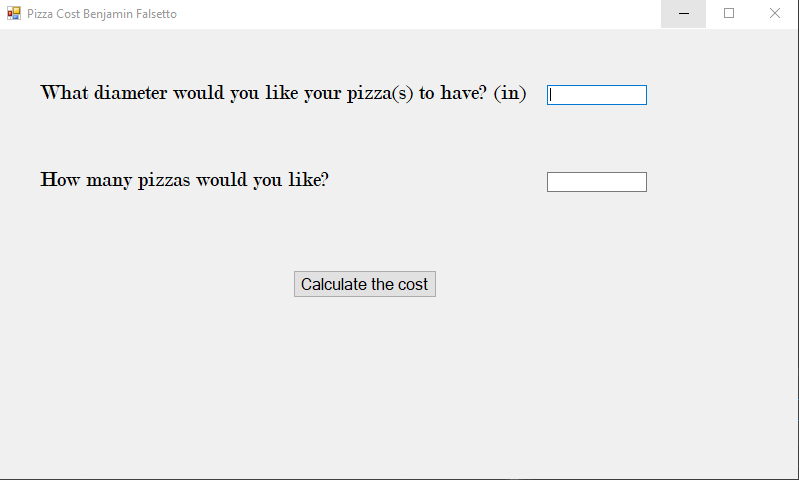
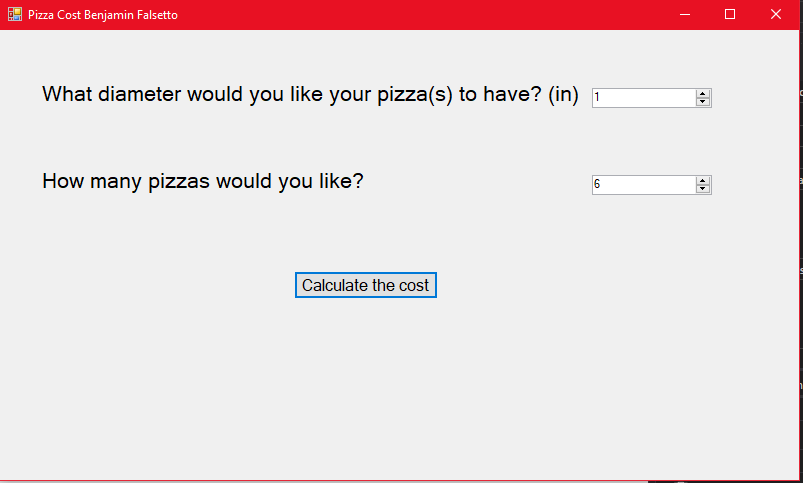
46567

diff --git a/PizzaCost/PizzaCost/PizzaCostForm.Designer.cs b/PizzaCost/PizzaCost/PizzaCostForm.Designer.cs
@@ -94,16 +94,46 @@
             // nudDiameter
             // 
             this.nudDiameter.Location = new System.Drawing.Point(593, 58);
+            this.nudDiameter.Maximum = new decimal(new int[] {
+            20,
+            0,
+            0,
+            0});
+            this.nudDiameter.Minimum = new decimal(new int[] {
+            1,
+            0,
+            0,
+            0});
             this.nudDiameter.Name = "nudDiameter";
             this.nudDiameter.Size = new System.Drawing.Size(120, 20);
             this.nudDiameter.TabIndex = 7;
+            this.nudDiameter.Value = new decimal(new int[] {
+            1,
+            0,
+            0,
+            0});
             // 
             // nudNumPizza
             // 
             this.nudNumPizza.Location = new System.Drawing.Point(593, 145);
+            this.nudNumPizza.Maximum = new decimal(new int[] {
+            60,
+            0,
+            0,
+            0});
+            this.nudNumPizza.Minimum = new decimal(new int[] {
+            6,
+            0,
+            0,
+            0});
             this.nudNumPizza.Name = "nudNumPizza";
             this.nudNumPizza.Size = new System.Drawing.Size(120, 20);
             this.nudNumPizza.TabIndex = 8;
+            this.nudNumPizza.Value = new decimal(new int[] {
+            6,
+            0,
+            0,
+            0});
             // 
             // lblHst
             // 

diff --git a/PizzaCost/PizzaCost/PizzaCostForm.cs b/PizzaCost/PizzaCost/PizzaCostForm.cs
@@ -1,4 +1,13 @@
-using System;
+/*
+ * Created by: Benjamin Falsetto
+ * Created on: 2018/10/02
+ * Created for: ICS3U Programming
+ * Daily Assignment – Day #11 - Pizza Cost
+ * This program takes a size input and a number of pizzas input from numeric updown boxes and then
+ * gives subtotal, hst, and total
+*/
+
+using System;
 using System.Collections.Generic;
 using System.ComponentModel;
 using System.Data;
